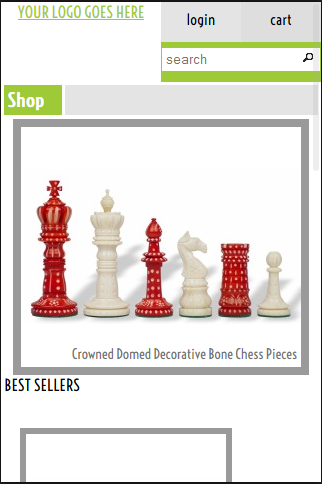
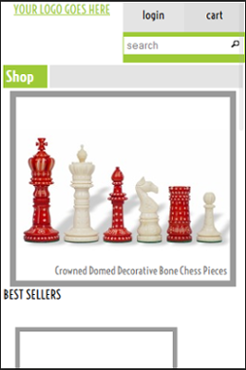
Completed responsive on projects page

diff --git a/styles.css b/styles.css
@@ -442,6 +442,7 @@ fullWidth{
 /*PARALLAX STYLES FOR PROJECTS PAGE*/
 .mainNavigationSectionProjects{
 	height: 100%;
+	width: 100%;
     margin: 0;
     overflow-x: hidden;
     overflow-y: hidden;
@@ -494,6 +495,9 @@ fullWidth{
 	width: 90%;
 	border-radius: 5px;
 	box-shadow: 0 0 8px rgba(0, 0, 0, 0.7);	
+}
+.titleLight{
+	background: none repeat scroll 0 0 rgba(200, 200, 200, 0.5);
 }
 .slide:nth-child(2n) .title {
 	margin-left:0; 
@@ -729,7 +733,23 @@ fullWidth{
 	background: none;
 	box-shadow: none;
 }
-
+.title button{
+	background:url("images/ui-bg_gloss-wave_55_000000_500x100.png") repeat-x scroll 50% 50% #0a0a0a;
+    border: medium none;
+    color: #9fda58;
+    display: block;
+    font-size: 20px;
+    height: 75px;
+    margin-left: auto;
+    margin-right: auto;
+    text-shadow: 0 2px 2px #000000;
+    width: 310px;
+}
+.title button:hover{
+	background: url("images/ui-bg_gloss-wave_85_9fda58_500x100.png") repeat-x scroll 50% 50% #0a0a0a;
+	color: #242424;
+	text-shadow:none;
+}
 
 .mainNavigationSectionProjects div.projectBackToTopButton{
 	bottom: 0;
@@ -989,8 +1009,17 @@ fullWidth{
 	top: 265px;
 }
 #greenspeedDialog{
+	background-image:url(images/projects/greenspeed320x480.png);
+	height: 350px !important;
+    width: 212px !important;
 }
 #pinkAndBlackDialog{
+	background-image:url(images/projects/pinkandblack320x480.png);
+	height: 213px !important;
+    width: 220px !important;
+}
+.title button {
+	width: 225px;
 }
 }
 @media screen and (min-width: 480px) { 
@@ -1095,14 +1124,17 @@ fullWidth{
 	top: 180px;
 }
 #greenspeedDialog{
+	background-image:url(images/projects/greenspeed480x640.png);
+	height: 571px !important;
+    width: 403px !important;
 }
 #pinkAndBlackDialog{
+	background-image:url(images/projects/pinkandblack480x640.png);
+	height: 364px !important;
+    width: 409px !important;
 }
-}
-@media screen and (min-width: 640px) { 
-/*GENERAL/TEMPLATE STYLES*/
-.responsiveContainer{
-	width:600px;
+.title button {
+	width: 310px;
 }
 /*HEADER*/
 .mainNavigationSection div.responsiveContainer{
@@ -1158,13 +1190,21 @@ fullWidth{
 	width: 570px;
 	height: 472px;
 }
+}
+@media screen and (min-width: 640px) { 
 /*PROJECTS*/
 .projectsIndexTab{
 	top: 125px;
 }
 #greenspeedDialog{
+	background-image:url(images/projects/greenspeed640x480.png);
+	height: 405px !important;
+    width: 530px !important;
 }
 #pinkAndBlackDialog{
+	background-image:url(images/projects/pinkandblack640x480.png);
+	height: 405px !important;
+    width: 505px !important;
 }
 }
 @media screen and (min-width: 800px) { 
@@ -1229,8 +1269,14 @@ fullWidth{
 	top: 125px;
 }
 #greenspeedDialog{
+	background-image:url(images/projects/greenspeed800x600.png);
+	height: 530px !important;
+    width: 696px !important;
 }
 #pinkAndBlackDialog{
+	background-image:url(images/projects/pinkandblack800x600.png);
+	height: 530px !important;
+    width: 680px !important;
 }
 }
 @media screen and (min-width: 1024px) { 
@@ -1298,8 +1344,14 @@ fullWidth{
 }
 /*PROJECTS*/
 #greenspeedDialog{
+	background-image:url(images/projects/greenspeed1024x600.png);
+	height: 512px !important;
+    width: 860px !important;
 }
 #pinkAndBlackDialog{
+	background-image:url(images/projects/pinkandblack1024x600.png);
+	height: 619px !important;
+    width: 950px !important;
 }
 }
 @media screen and (min-width: 1280px) {
@@ -1361,7 +1413,13 @@ fullWidth{
 }
 /*PROJECTS*/
 #greenspeedDialog{
+	background-image:url(images/projects/greenspeed1280x850.png);
+	height: 770px !important;
+    width: 1150px !important;
 }
 #pinkAndBlackDialog{
+	background-image:url(images/projects/pinkandblack1280x800.png);
+	height: 619px !important;
+    width: 1150px !important;
 }
 }

diff --git a/prevprojects.html b/prevprojects.html
@@ -257,15 +257,13 @@
                     <button onClick="projectTemplateModal('greenspeedDialog')" style="position:relative; z-index:500;">Click here to see a screenshot of this template</button>
                 </div>
                 <div id="greenspeedDialog" style="display:none;">
-                	<img src="images/projects/greenspeedtemplate.png" />
                 </div>
             </div>
             <div class="slide slide15 slideFixed" id="slide15">
-            	<div class="title">
+            	<div class="title titleLight">
                     <button onClick="projectTemplateModal('pinkAndBlackDialog');" style="position:relative; z-index:500;">Click here to see a screenshot of this template</button>
                 </div>
                 <div id="pinkAndBlackDialog" style="display:none;">
-                	<img src="images/projects/pandbtemplate.png" />
                 </div>
             </div>
     	<div class="ui-state-default ui-corner-all projectBackToTopButton"><span class="back-to-top" onClick="$('html').animate({ scrollTop: 0 }, '1000');">Back to Top</span></div>
@@ -303,7 +301,7 @@
                 <div><a class="uppercase">References</a></div>
             </div>
             <div class="footerCreditsSection">
-            	<p>Version 0.04</p>
+            	<p>Version 0.05</p>
             </div>
     	</div>
     </div>

diff --git a/functions.js b/functions.js
@@ -64,8 +64,7 @@ $(document).ready(function() {
 		mouseleave: function () {
 			$(this).animate({color:'#9fda58'},500);
 		} 
-	});
-	
+	});	
 });
 
 
@@ -82,10 +81,9 @@ function searchTabOpenClose(){
 	}
 }
 
+//PROJECT PAGE TEMPLATE MODAL SHOW
 function projectTemplateModal(tempImg){
 	var screenWidth = $(window).width()-40;
 	var screenHeight = $(window).height()-20;
-	$("#"+tempImg+" img").css("width",screenWidth-35);
-	$("#"+tempImg+" img").css("height","420px");
 	$("#"+tempImg ).dialog({'modal':'true', 'title':'','width':screenWidth, height:screenHeight, 'dialogClass' : tempImg});
 }

diff --git a/index.html b/index.html
@@ -8,7 +8,7 @@
 <!-- InstanceEndEditable -->
 
 <!-- InstanceBeginEditable name="head" -->
-<!--VERSION : 0.04-->
+<!--VERSION : 0.05-->
 <!--SCRIPTS-->
 <script src="jquery-2.1.3.min.js"></script>
 <script src="jquery-ui-1.11.4.custom/external/jquery/jquery.js"></script>
@@ -163,7 +163,7 @@
                 <div><a class="uppercase">References</a></div>
             </div>
             <div class="footerCreditsSection">
-            	<p>Version 0.04</p>
+            	<p>Version 0.05</p>
             </div>
     	</div>
     </div>

diff --git a/history.html b/history.html
@@ -204,7 +204,7 @@
                 <div><a class="uppercase">References</a></div>
             </div>
             <div class="footerCreditsSection">
-            	<p>Version 0.03</p>
+            	<p>Version 0.05</p>
             </div>
     	</div>
     </div>
